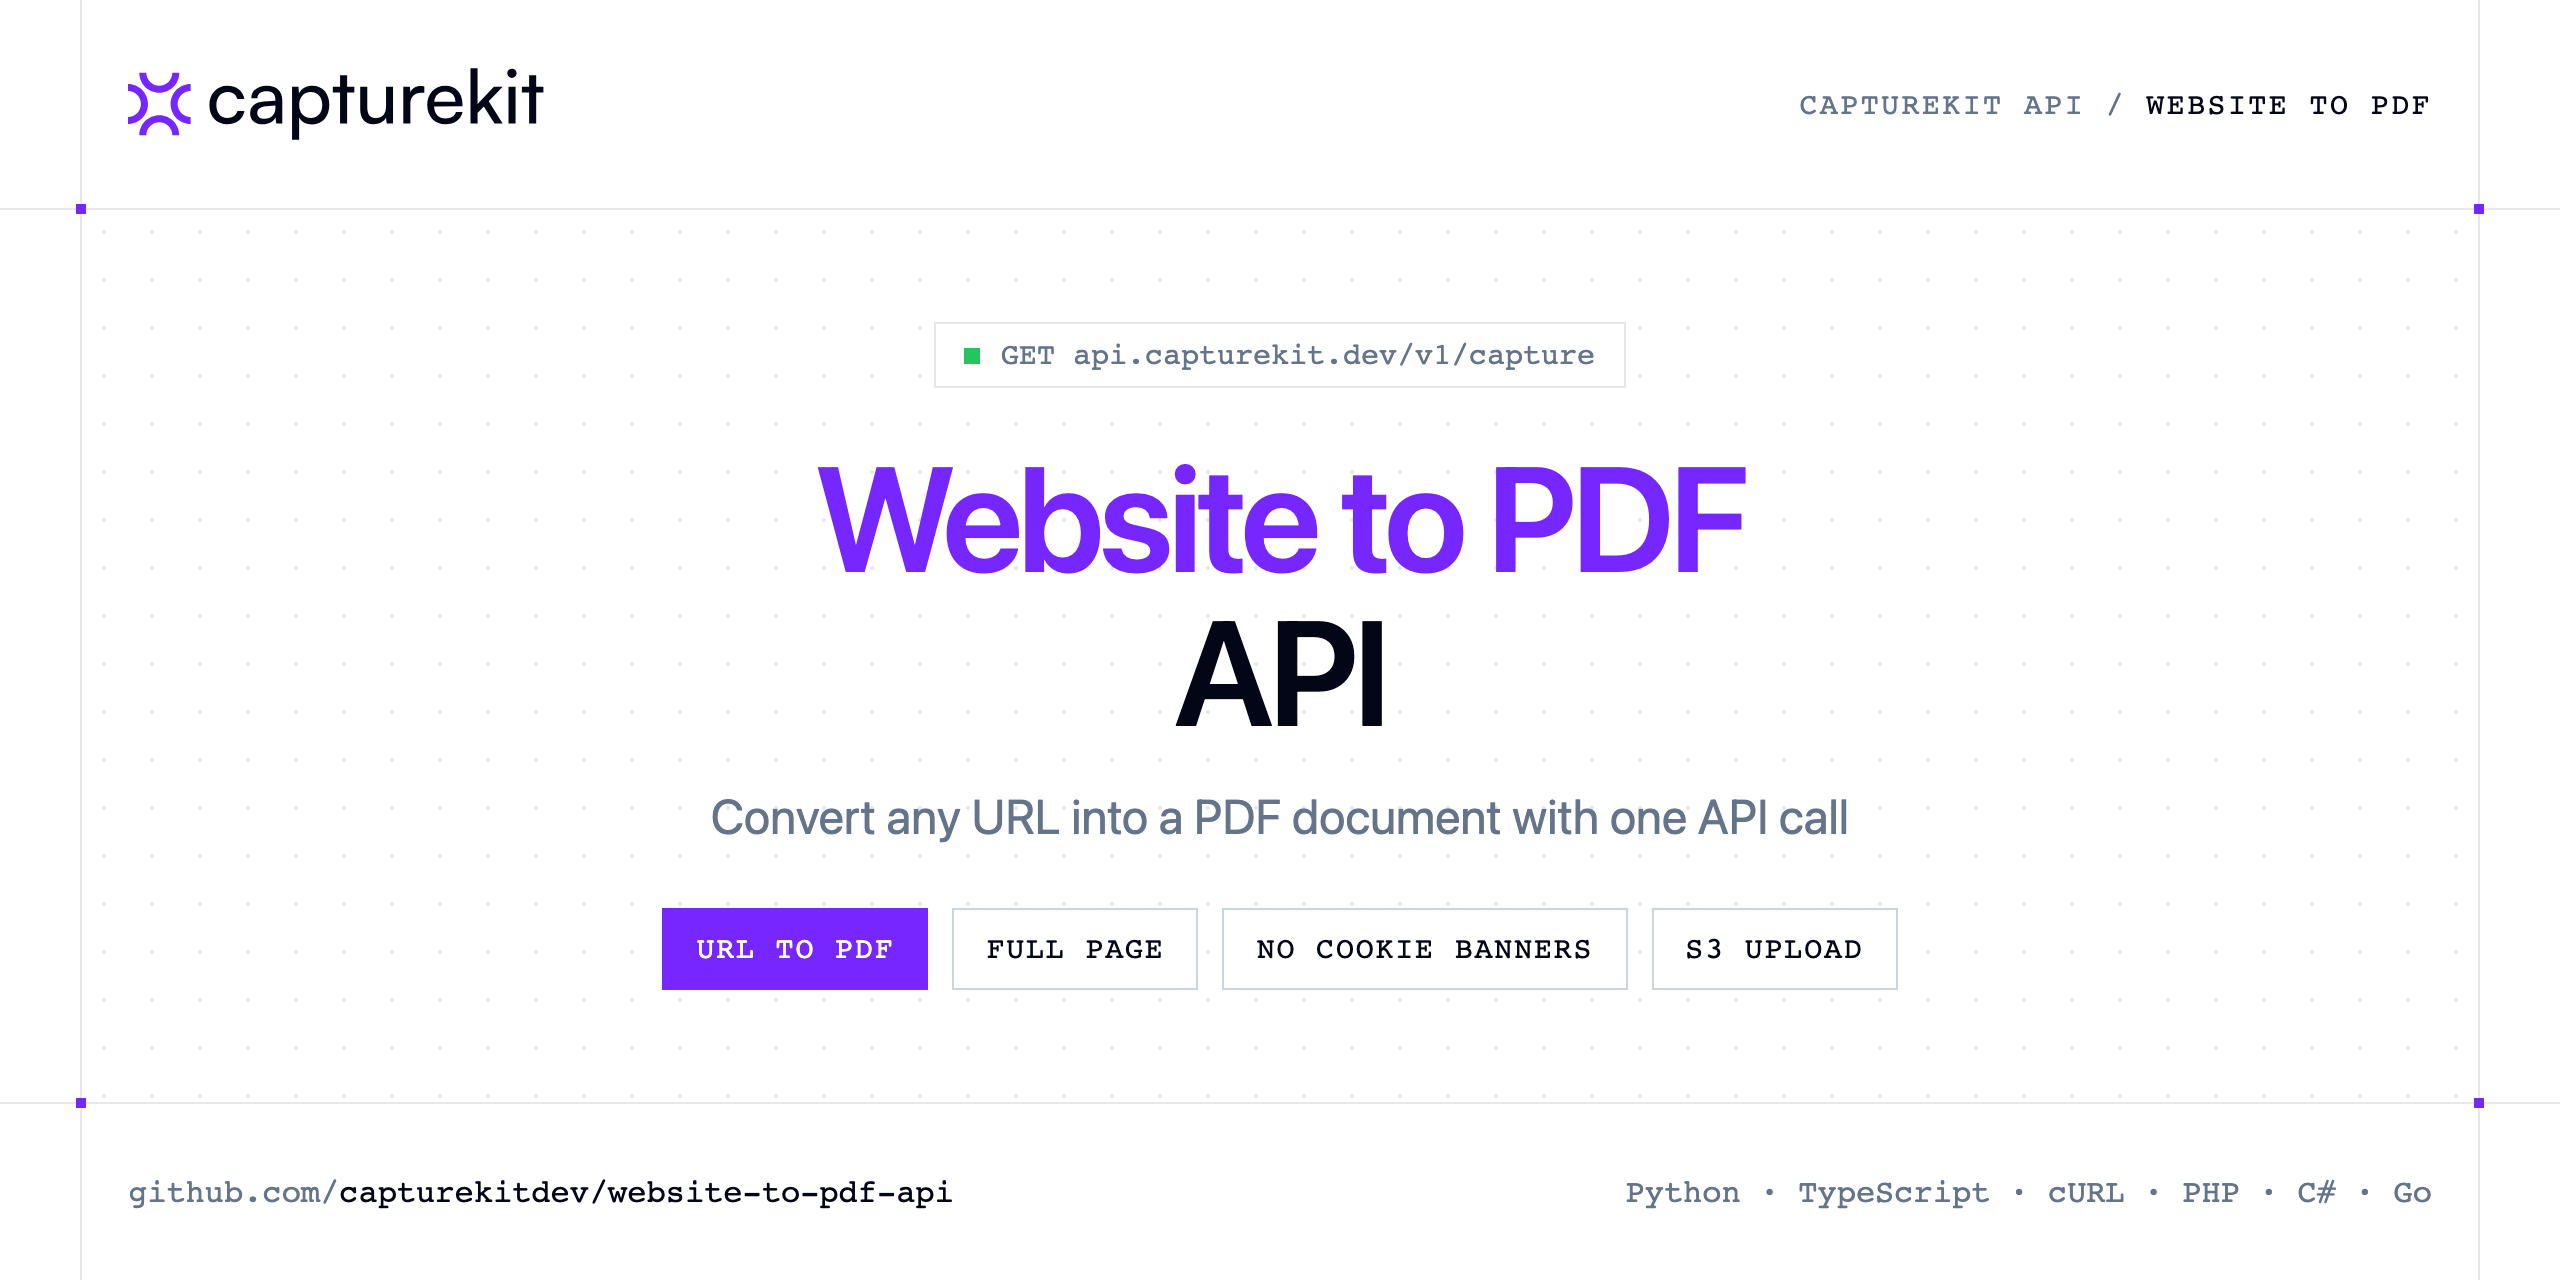
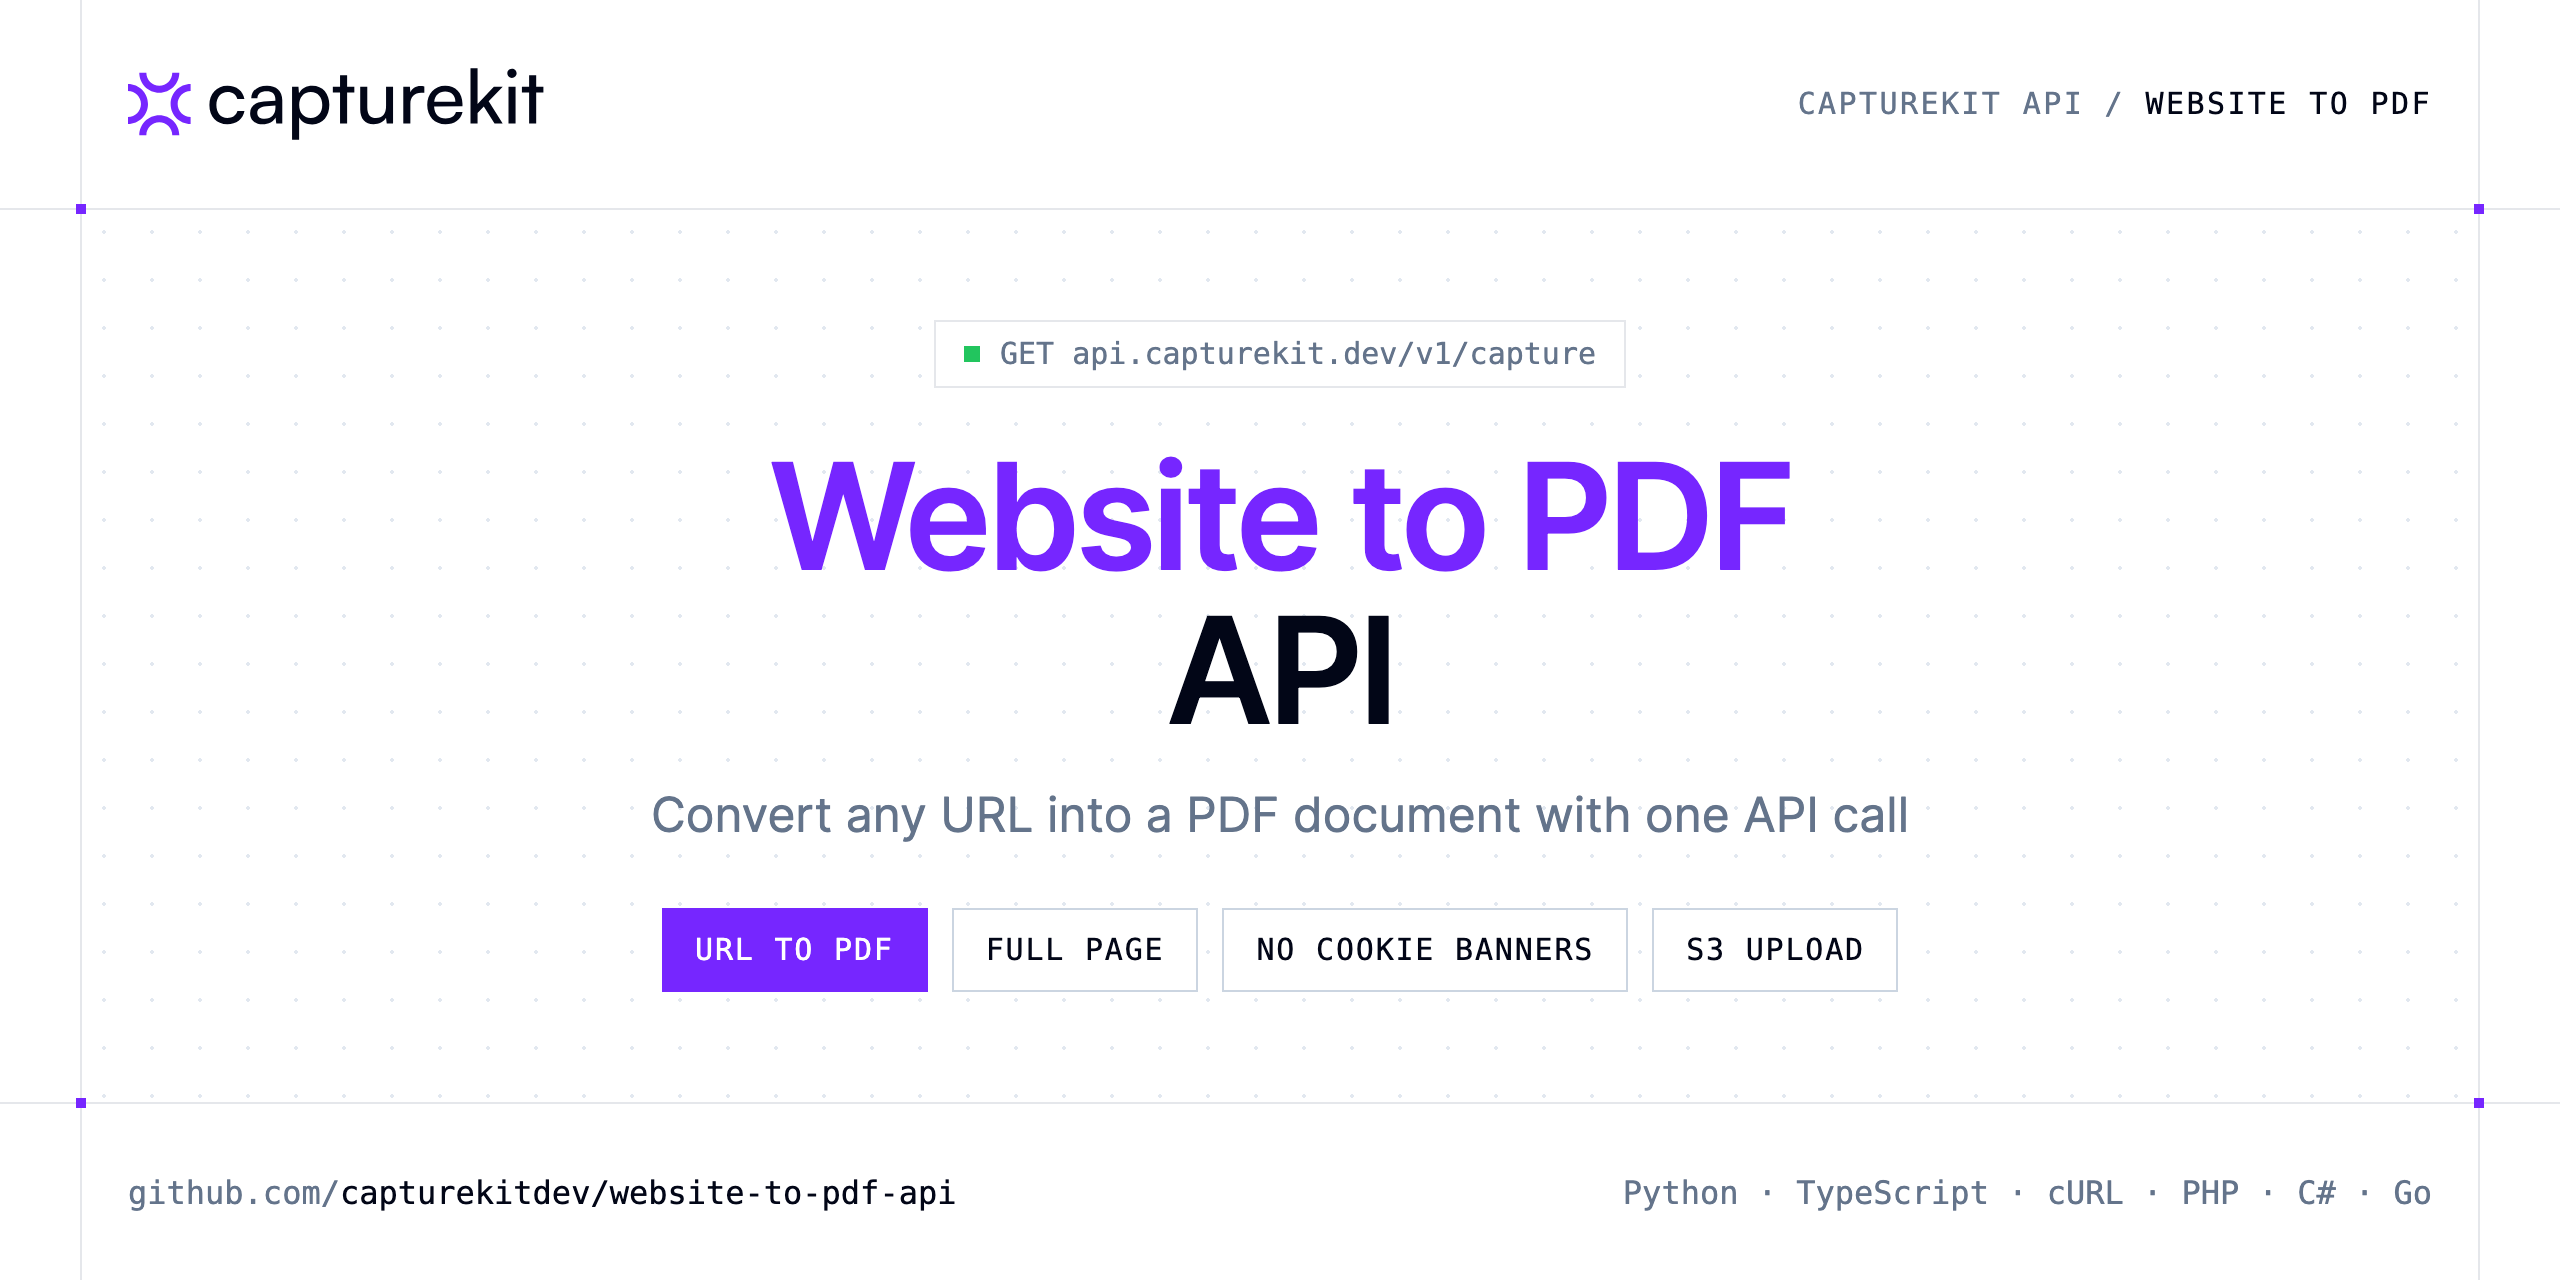
Update Website to PDF API examples and docs

diff --git a/README.md b/README.md
@@ -176,7 +176,7 @@ Any language that can make an HTTP request. This README shows Python and TypeScr
 
 ## Related repositories
 
-- [Screenshot API](https://github.com/capturekitdev/screenshot-api)
+- [Screenshot API](https://github.com/capturekitdev/website-screenshot-api)
 - [Full Page Screenshot API](https://github.com/capturekitdev/full-page-screenshot-api)
 - [Mobile Screenshot API](https://github.com/capturekitdev/mobile-screenshot-api)
 - [Website Content API](https://github.com/capturekitdev/website-content-api)
